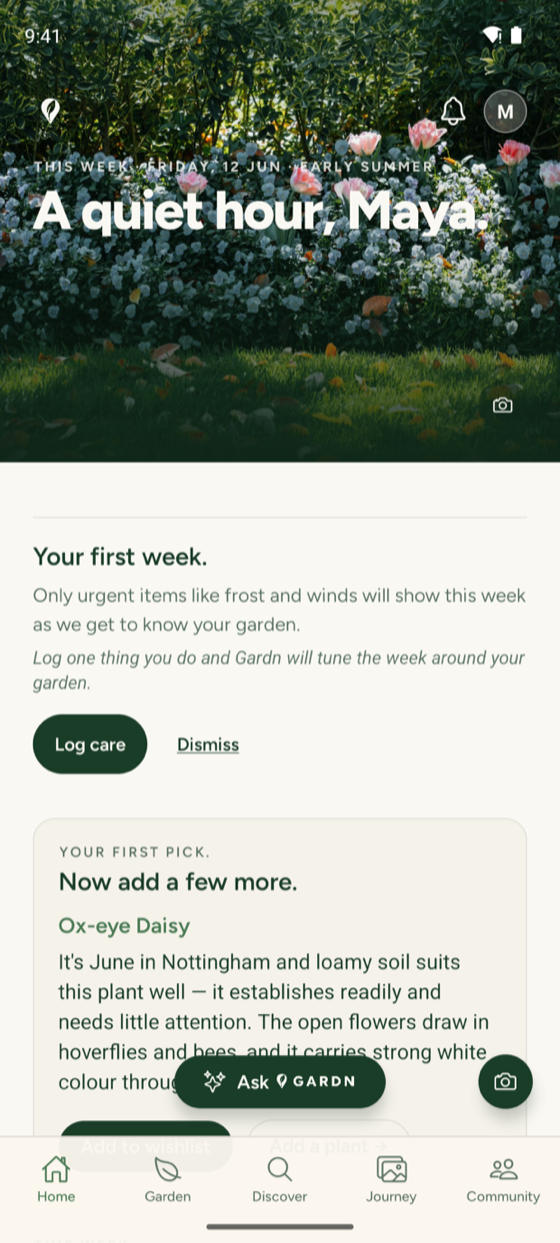
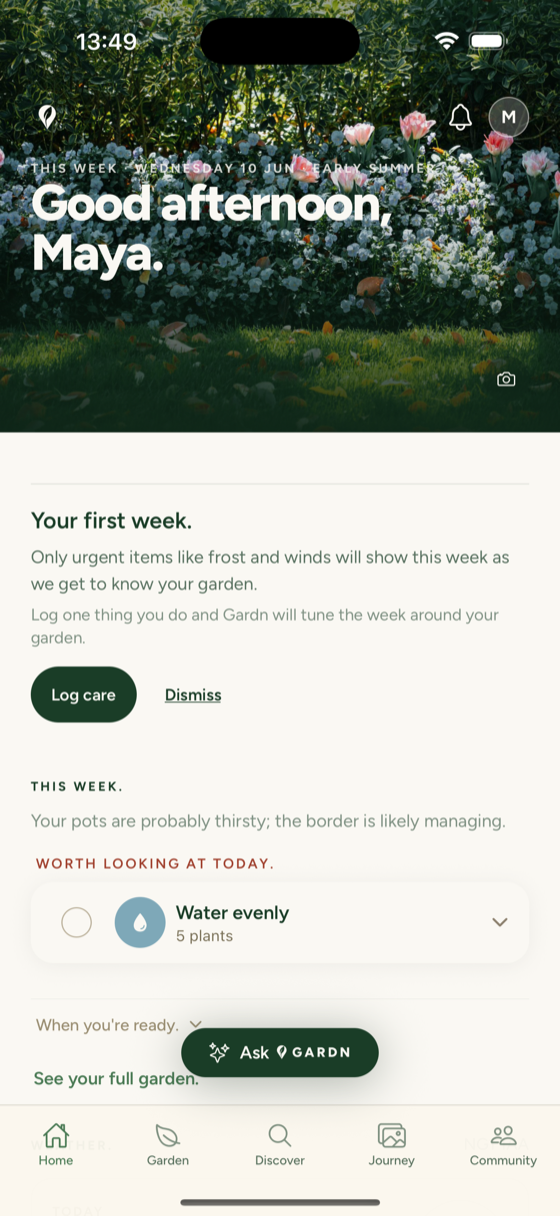
feat(home): map-first screenshot narrative from the iOS launch set
The hero promises 'every bed, border and pot mapped' but the page never
showed the map. New section after the trust strip leads with the Garden
map capture; sections now mirror the hero sub-line: mapped -> name a
border -> this week -> a record that deepens.

- New 2b 'Your garden, mapped.' section (sec-cream, flipped — downstream
  left/right alternation preserved)
- Week section: launch Home-screen capture replaces the onboarding-state
  shot (also removes its Nottingham reference)
- Journey section: Memory capture ('June across the years') replaces the
  spaces grid — the literal visual of 'Remembers what you'd forget.'
- Border Scan: spaces capture refreshed from the same launch set so all
  shots show one consistent garden (Maya's, 8 plants across 5 spaces)
- Ask Gardn kept as-is: its answer names the dahlia in the Left Border,
  which is what the section copy promises
- aria-labels and captions updated to describe the actual screens

Assets from gardn-ios-launch-screenshots-20260610/English UK, 560w.

diff --git a/index.html b/index.html
@@ -113,6 +113,28 @@
     </div>
   </section>
 
+  <!-- ░░ 2b · YOUR GARDEN, MAPPED ░░ -->
+  <section class="band sec-cream">
+    <div class="shell">
+      <div class="feature flip reveal">
+        <div class="copy">
+          <p class="eyebrow">Your garden, drawn</p>
+          <h2>Every bed, border and pot, on one map.</h2>
+          <p class="lead">Trace the real shape of your garden once — borders, beds, pots and paths. Every plant lives where it actually grows, and everything Gardn tells you starts from there.</p>
+          <p>Advice, alerts and answers all anchor to the map. When Gardn says the left border needs water, it means your left border.</p>
+        </div>
+        <div class="visual">
+          <div>
+            <div class="phone" role="img" aria-label="The Garden map in Gardn: a drawn plan of a real garden with shaped beds and borders, each plant named and placed where it grows.">
+              <img class="phone-shot" src="assets/shot-garden-map.png" alt="" loading="lazy">
+            </div>
+            <p class="phone-cap">Your garden, not a garden.</p>
+          </div>
+        </div>
+      </div>
+    </div>
+  </section>
+
   <!-- ░░ 3 · BORDER SCAN (free hook) ░░ -->
   <section class="band sec-paper">
     <div class="shell">
@@ -206,10 +228,10 @@
         </div>
         <div class="visual">
           <div>
-            <div class="phone" role="img" aria-label="This week in the app: a frost alert at the top, followed by a short list of garden tasks.">
+            <div class="phone" role="img" aria-label="The Gardn home screen: a greeting, an honest one-line read on the week, and the single task worth doing today.">
               <img class="phone-shot" src="assets/shot-week.png" alt="" loading="lazy">
             </div>
-            <p class="phone-cap">In-app, where you’ll see it in time.</p>
+            <p class="phone-cap">Honest enough to say when nothing’s urgent.</p>
           </div>
         </div>
       </div>
@@ -270,8 +292,8 @@
         </div>
         <div class="visual">
           <div>
-            <div class="phone" role="img" aria-label="Your garden’s journey: a grid of garden spaces, each a photo tile labelled with a season.">
-              <img class="phone-shot" src="assets/shot-journey.png" alt="" loading="lazy">
+            <div class="phone" role="img" aria-label="The Memory view: the same border photographed in June, compared month by month and across 2024, 2025 and 2026.">
+              <img class="phone-shot" src="assets/shot-memory.png" alt="" loading="lazy">
             </div>
             <p class="phone-cap">A private diary your garden writes with you.</p>
           </div>
@@ -297,7 +319,7 @@
           </div>
           <div class="visual">
             <div>
-              <div class="phone" role="img" aria-label="Wildlife score: a 72 out of 100 scorecard with goals to raise it."><img class="phone-shot" src="assets/shot-wildlife.png" alt="" loading="lazy"></div>
+              <div class="phone" role="img" aria-label="Wildlife score: a 63 out of 100 scorecard, with per-species breakdowns for bees, butterflies and hoverflies."><img class="phone-shot" src="assets/shot-wildlife.png" alt="" loading="lazy"></div>
             </div>
           </div>
         </div>